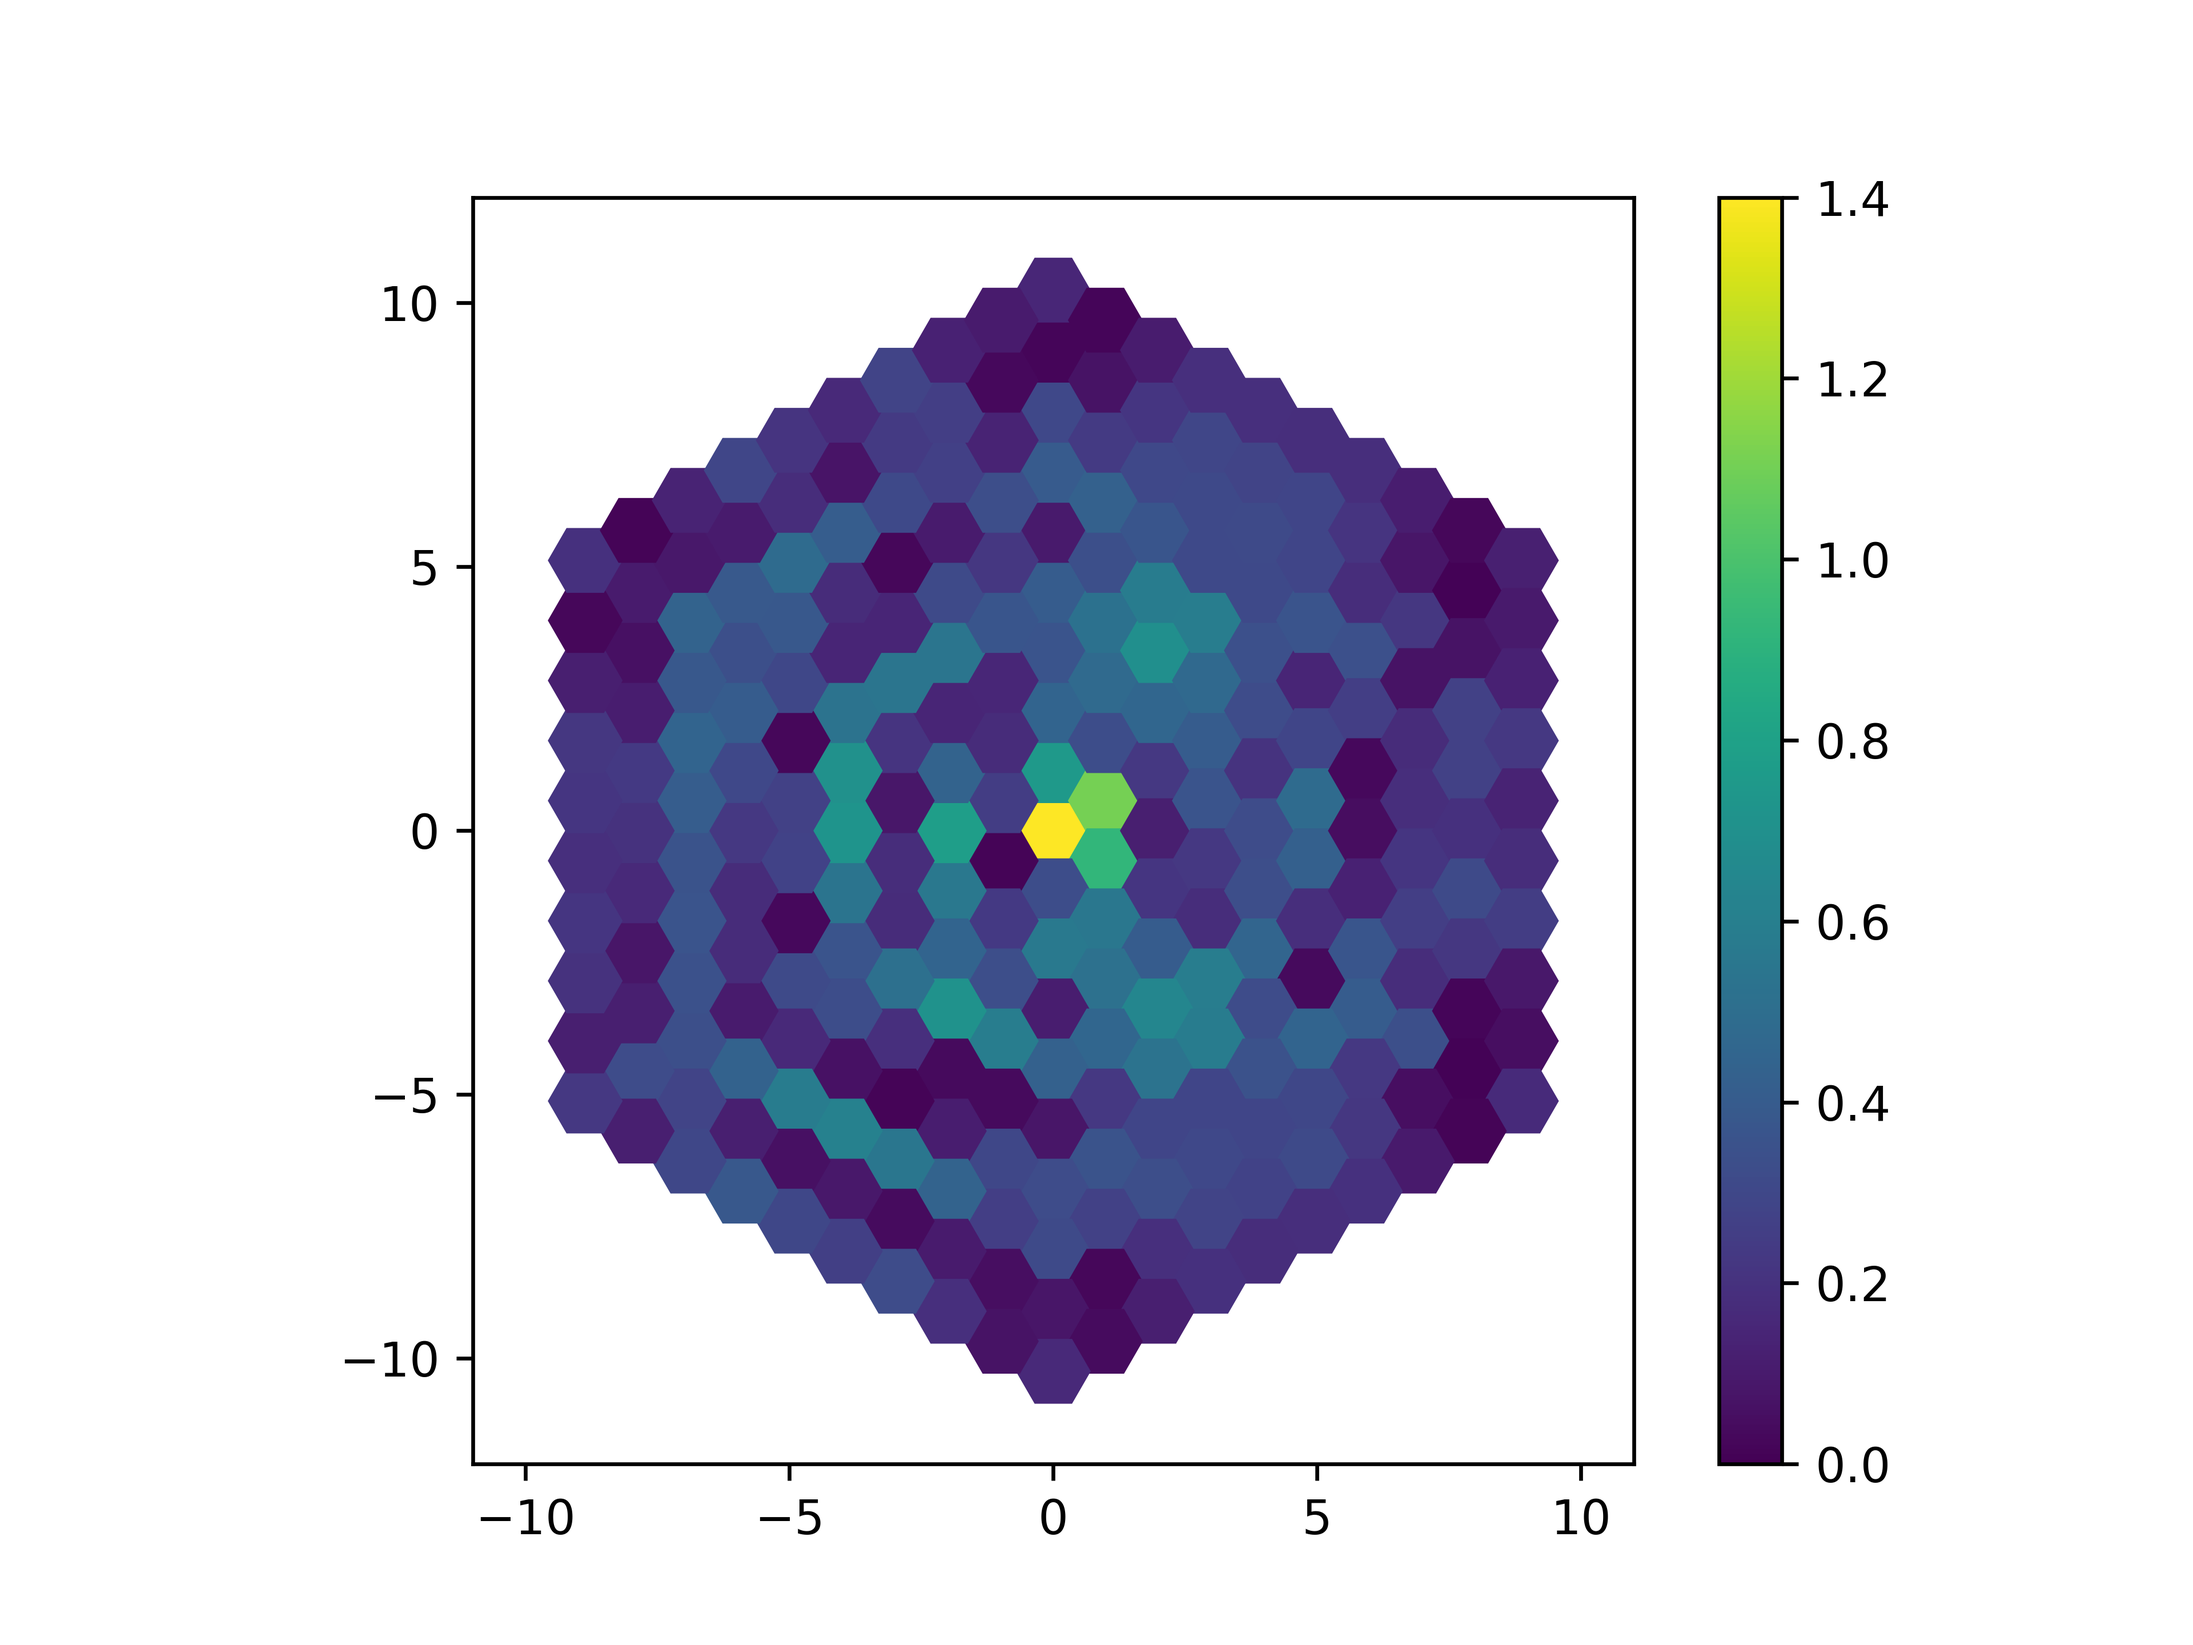
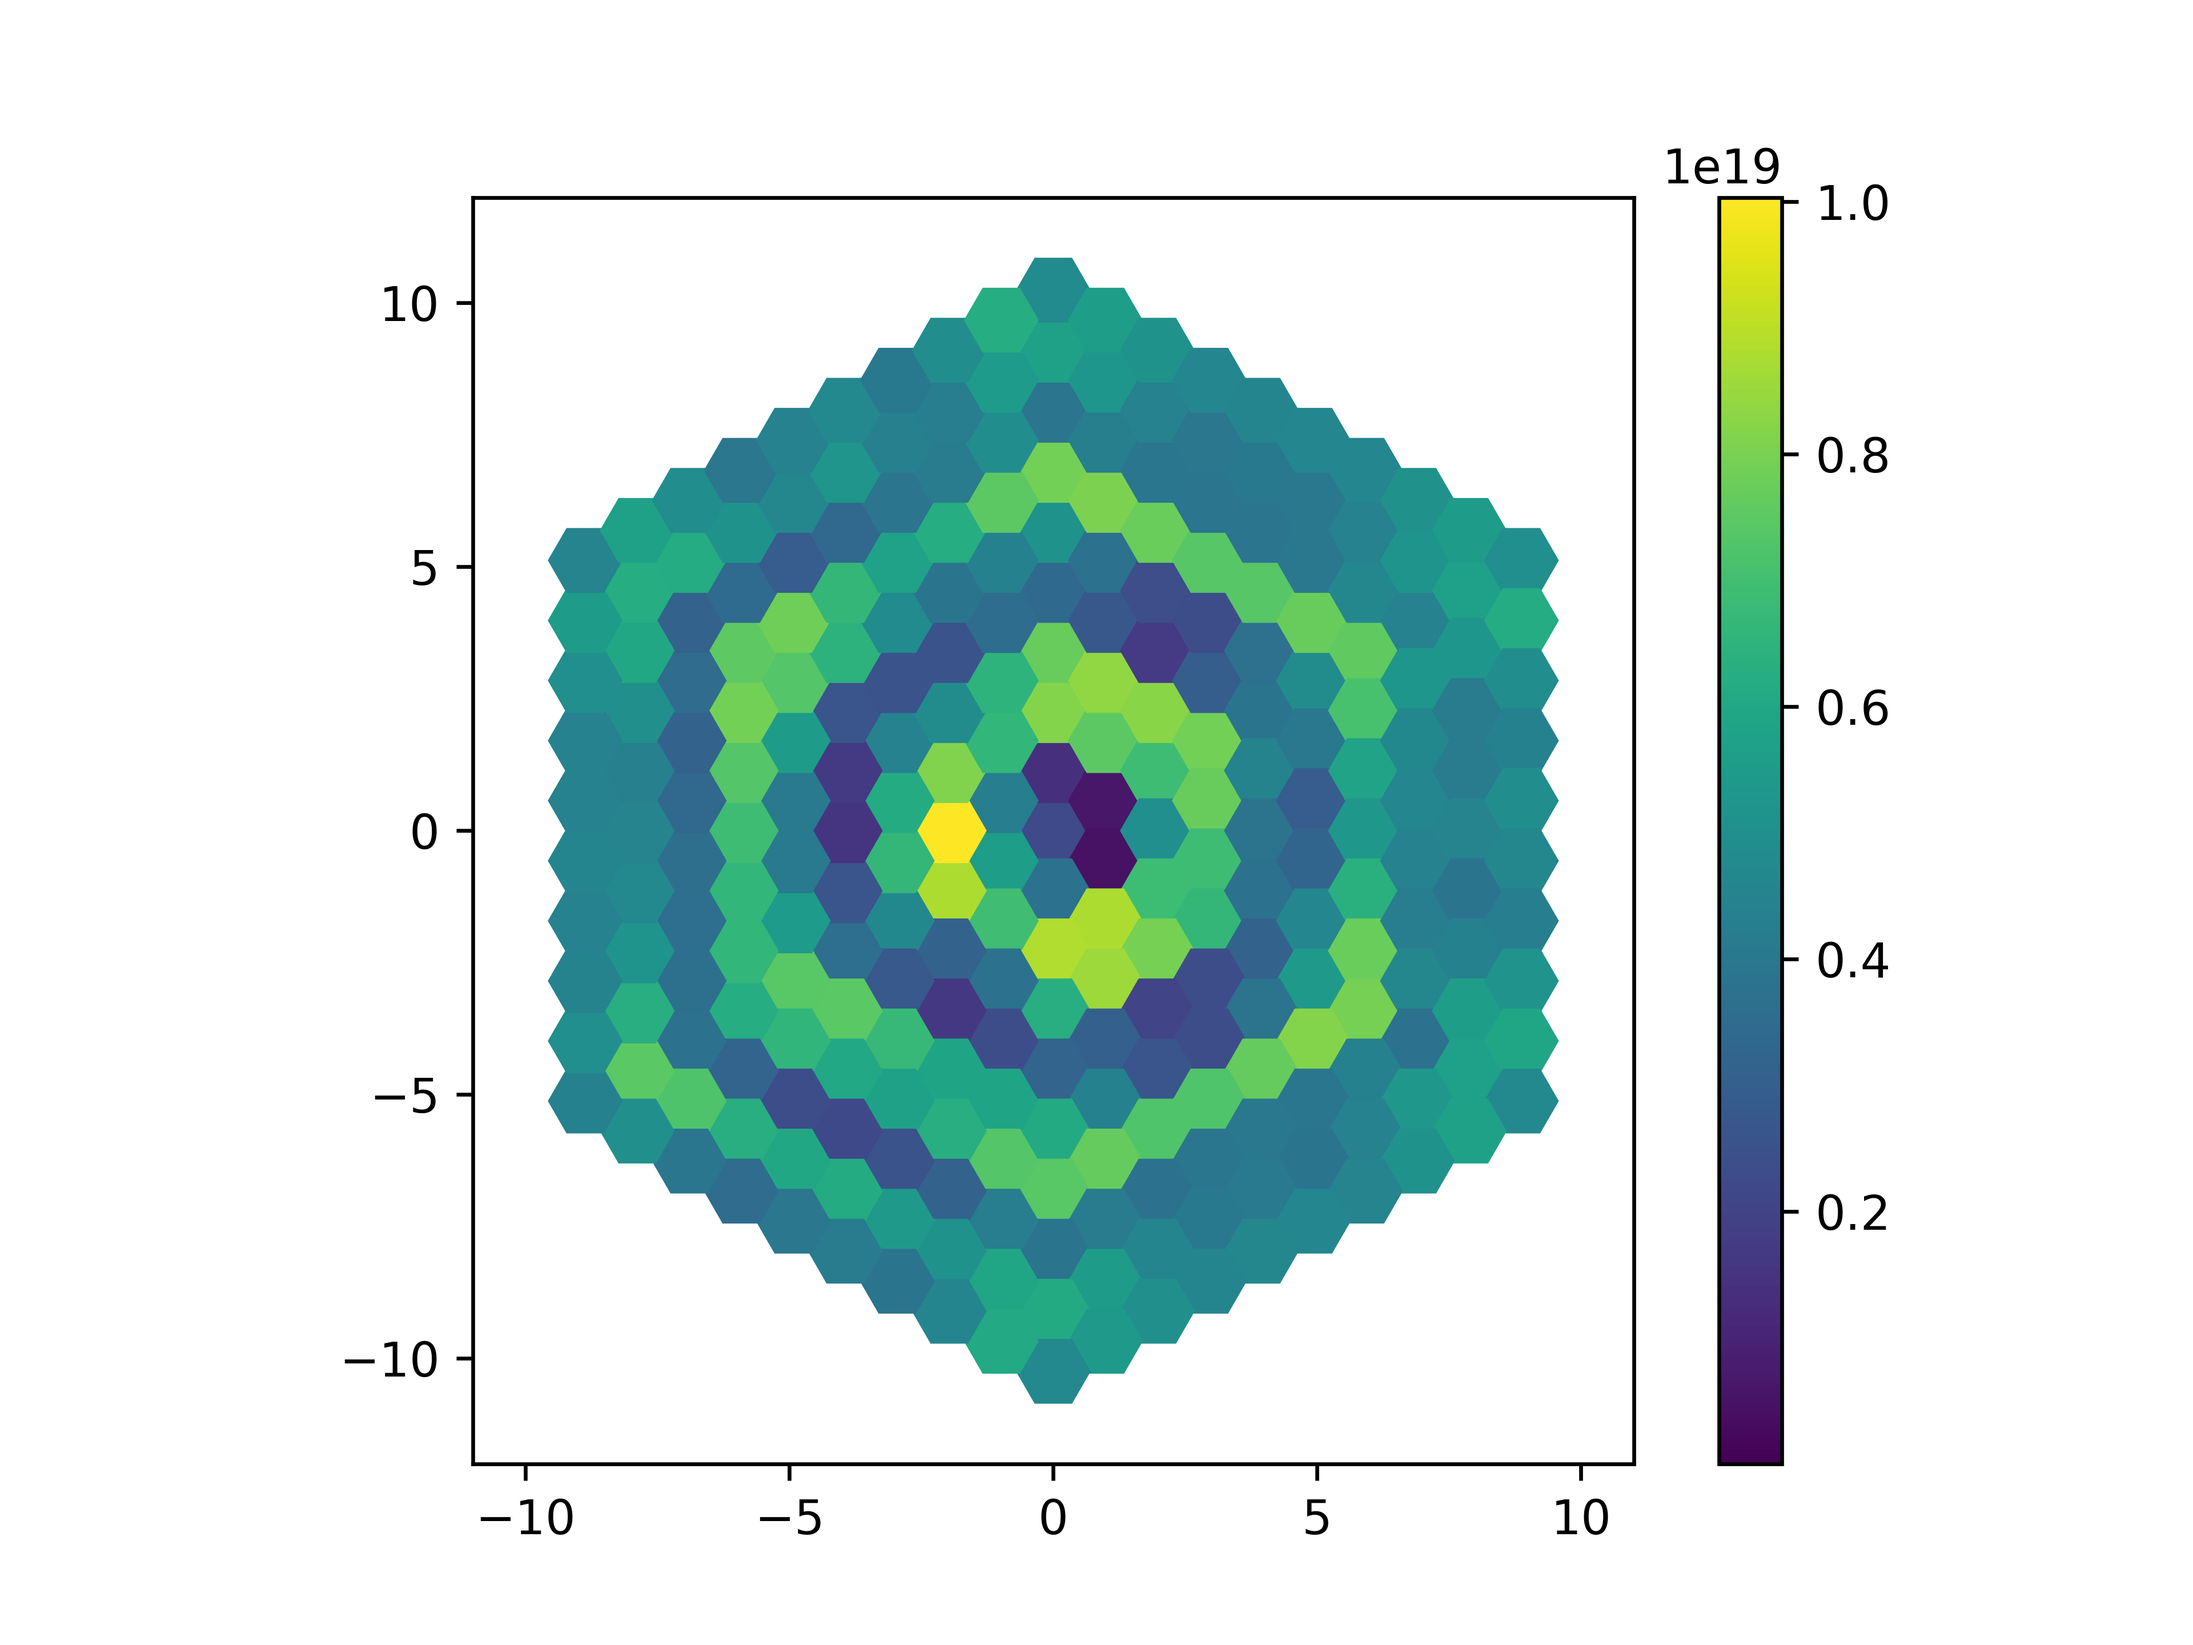
adding the whole kit and caboodle

diff --git a/post-processing/plot_tallies.py b/post-processing/plot_tallies.py
@@ -18,22 +18,34 @@ def plot_func(func, dx):
     values, min, max = calc_weights(func, dx)
     tally_type, qoi, _ = func.__name__.split('_')
 
-    bounds = [min, max]
+    total = 0
+    for ring in cs:
+        for cell_num in range(len(cs[ring])):
+            x, y = cs[ring][cell_num]
+            # color = cmap(norm(random()))
+            total += values[ring][cell_num]
+
+    # bounds = [min / total, max / total]
     # diff = bounds[1] - bounds[0]
+
+    if qoi == "fission":
+        bounds = [0, 0.018]
+    if qoi == "flux":
+        bounds = [0, 0.009]
+
+    fig, ax = plt.subplots()
+    ax.set_aspect('equal')
 
     cmap = mpl.colormaps['viridis']
     norm = mpl.colors.Normalize(bounds[0], bounds[1])
     sm = ScalarMappable(norm=norm, cmap=cmap)
     sm.set_array([])
 
-    fig, ax = plt.subplots()
-    ax.set_aspect('equal')
-
     for ring in cs:
         for cell_num in range(len(cs[ring])):
             x, y = cs[ring][cell_num]
             # color = cmap(norm(random()))
-            weight = values[ring][cell_num]
+            weight = values[ring][cell_num] / total
             color = cmap(norm(weight))
             polygon = mp.RegularPolygon((x, y), 6, radius=radius,
                                         orientation=np.pi/2, color=color)
@@ -47,34 +59,38 @@ def plot_func(func, dx):
     plt.close()
 
 
-# plotting the difference
-def plot_diff_abs(func, dx):
-    values, _, _ = calc_weights(func, dx)
-    tally_type, qoi, _ = func.__name__.split('_')
-
+# plotting csv
+def plot_csv(qoi):
     if qoi == "flux":
-        parsed = flux_vals
+        parsed = flux_vals.copy()
     if qoi == "fission":
-        parsed = fission_vals
+        parsed = fission_vals.copy()
 
-    diffs = {}
     max = -1e10
     min = 1e10
-    for ring in values:
-        diffs[ring] = []
-        for cell_num in range(len(values[ring])):
-            diff = abs(values[ring][cell_num] - parsed[ring][cell_num]) 
-            if diff > max:
-                max = diff
-            if diff < min:
-                min = diff
-            diffs[ring].append(diff)
+    total = 0
+    for ring in parsed:
+        for cell_num in range(len(parsed[ring])):
+            total += parsed[ring][cell_num]
 
-    if qoi == 'fission':
-        bounds = [0, 0.005]
-    if qoi == 'flux':
-        bounds = [0, 3e9]
+    for ring in parsed:
+        for cell_num in range(len(parsed[ring])):
+            weight = parsed[ring][cell_num]
+            if weight / total > max:
+                max = weight / total
+            if weight / total < min:
+                min = weight / total
+
+#    if qoi == 'fission':
+#        bounds = [0, 0.005]
+#    if qoi == 'flux':
+#        bounds = [0, 3e9]
 #    bounds = [min, max]
+
+    if qoi == "fission":
+        bounds = [0, 0.018]
+    if qoi == "flux":
+        bounds = [0, 0.009]
 
     cmap = mpl.colormaps['viridis']
     norm = mpl.colors.Normalize(bounds[0], bounds[1])
@@ -87,7 +103,7 @@ def plot_diff_abs(func, dx):
     for ring in cs:
         for cell_num in range(len(cs[ring])):
             x, y = cs[ring][cell_num]
-            weight = diffs[ring][cell_num]
+            weight = parsed[ring][cell_num] / total
             color = cmap(norm(weight))
             polygon = mp.RegularPolygon((x, y), 6, radius=radius,
                                         orientation=np.pi/2, color=color)
@@ -97,50 +113,55 @@ def plot_diff_abs(func, dx):
     plt.ylim(-12, 12)
     plt.colorbar(sm, ax=ax)
 
-    plt.savefig(f"plots/abs/{tally_type}-{qoi}-abs-diff.png", dpi=600)
+    plt.savefig(f"plots/{qoi}-csv.png", dpi=600)
     plt.close()
 
 
-def plot_diff_rel(func, dx):
-    values, _, _ = calc_weights(func, dx)
+def plot_diffs(func, dx):
+    values, min, max = calc_weights(func, dx)
     tally_type, qoi, _ = func.__name__.split('_')
 
     if qoi == "flux":
-        parsed = flux_vals
+        parsed = flux_vals.copy()
+        bounds = [0, 0.001]
     if qoi == "fission":
-        parsed = fission_vals
+        parsed = fission_vals.copy()
+        bounds = [0, 0.005]
+    elif qoi != "flux" and qoi != "fission":
+        raise ValueError(f"{qoi}")
 
-    diffs = {}
-    max = -1e10
-    min = 1e10
-    for ring in values:
-        diffs[ring] = []
-        for cell_num in range(len(values[ring])):
-            diff = abs((values[ring][cell_num] - parsed[ring][cell_num]) / parsed[ring][cell_num])
-            if diff > max:
-                max = diff
-            if diff < min:
-                min = diff
-            diffs[ring].append(diff)
+    total1 = 0
+    total2 = 0
+    for ring in cs:
+        for cell_num in range(len(cs[ring])):
+            total1 += values[ring][cell_num]
+            total2 += parsed[ring][cell_num]
 
-    if qoi == 'fission':
-        bounds = [0, 1.4]
-    if qoi == 'flux':
-        bounds = [0, 0.25]
-#    bounds = [min, max]
+    for ring in cs:
+        for cell_num in range(len(cs[ring])):
+            values[ring][cell_num] /= total1
+            parsed[ring][cell_num] /= total2
+
+    diff = {}
+    for ring in parsed:
+        diff[ring] = []
+        for cell_num in range(len(parsed[ring])):
+            vle = values[ring][cell_num]
+            psd = parsed[ring][cell_num]
+            diff[ring].append(abs(vle - psd))
+
+    fig, ax = plt.subplots()
+    ax.set_aspect('equal')
 
     cmap = mpl.colormaps['viridis']
     norm = mpl.colors.Normalize(bounds[0], bounds[1])
     sm = ScalarMappable(norm=norm, cmap=cmap)
     sm.set_array([])
 
-    fig, ax = plt.subplots()
-    ax.set_aspect('equal')
-
     for ring in cs:
         for cell_num in range(len(cs[ring])):
             x, y = cs[ring][cell_num]
-            weight = diffs[ring][cell_num]
+            weight = diff[ring][cell_num]
             color = cmap(norm(weight))
             polygon = mp.RegularPolygon((x, y), 6, radius=radius,
                                         orientation=np.pi/2, color=color)
@@ -150,7 +171,7 @@ def plot_diff_rel(func, dx):
     plt.ylim(-12, 12)
     plt.colorbar(sm, ax=ax)
 
-    plt.savefig(f"plots/rel/{tally_type}-{qoi}-rel-diff.png", dpi=600)
+    plt.savefig(f"plots/diffs/{tally_type}-{qoi}.png", dpi=600)
     plt.close()
 
 
@@ -161,20 +182,18 @@ def plot_all_func(dx):
     plot_func(poly_flux_xy, dx)
 
 
-def plot_all_diff_abs(dx):
-    plot_diff_abs(zern_fission_xy, dx)
-    plot_diff_abs(zern_flux_xy, dx)
-    plot_diff_abs(poly_fission_xy, dx)
-    plot_diff_abs(poly_flux_xy, dx)
+def plot_all_csv():
+    plot_csv('fission')
+    plot_csv('flux')
 
 
-def plot_all_diff_rel(dx):
-#    plot_diff_rel(zern_fission_xy, dx)
-    plot_diff_rel(zern_flux_xy, dx)
-#    plot_diff_rel(poly_fission_xy, dx)
-    plot_diff_rel(poly_flux_xy, dx)
+def plot_all_diffs(dx):
+    plot_diffs(zern_fission_xy, dx)
+    plot_diffs(zern_flux_xy, dx)
+    plot_diffs(poly_fission_xy, dx)
+    plot_diffs(poly_flux_xy, dx)
 
 
-# plot_all_func(0.03)
-# plot_all_diff_abs(0.04)
-plot_all_diff_rel(0.04)
+# plot_all_func(0.04)
+# plot_all_csv()
+plot_all_diffs(0.04)

diff --git a/post-processing/calculating_weights.py b/post-processing/calculating_weights.py
@@ -9,12 +9,14 @@ import time
 def calc_weights(func, dx):
     tally_type, qoi, _ = func.__name__.split('_')
 
-    if qoi == "fission":
-        normalizer = 12826935.117376836
-    if qoi == "flux":
-        normalizer = 2.0552252049066863e-12
-    if qoi != "fission" and qoi != "flux":
-        raise ValueError("put the fission or flux in the bag lil bro")
+    if tally_type == "zern" and qoi == "fission":
+        normalizer = 1645920829.5520897 / 1.1219273470065219
+    if tally_type == "zern" and qoi == "flux":
+        normalizer = 1645920829.5520897 * 1 / 1.602e-19 / 1.1219273470065219
+    if tally_type == "poly" and qoi == "fission":
+        normalizer = 1645920829.5520897 / 1.1219273470065219
+    if tally_type == "poly" and qoi == "flux":
+        normalizer = 1645920829.5520897 * 1 / 1.602e-19 / 1.1219273470065219
 
     t0 = time.time()
     values = {}
@@ -34,7 +36,7 @@ def calc_weights(func, dx):
             for quad_point in quad_points:
                 value += func(quad_point[0], quad_point[1])
 
-            values[ring].append(value / count / area / normalizer)
+            values[ring].append(value / count / area * normalizer)
             num_quad = count
 
     max = 1e-100

diff --git a/post-processing/post-processing.py b/post-processing/post-processing.py
@@ -44,7 +44,7 @@ cmap = mpl.colormaps['viridis']
 bz1 = [np.min(z_fission), np.max(z_fission)]
 bz2 = [np.min(z_flux), np.max(z_flux)]
 
-nz1 = mpl.colors.Normalize(bz1[0], bz1[1])
+nz1 = mpl.colors.Normalize(bz1[0], bz1[1] * 0.8)
 nz2 = mpl.colors.Normalize(bz2[0], bz2[1])
 
 smz1 = ScalarMappable(norm=nz1, cmap=cmap)
@@ -86,14 +86,23 @@ rp = r * var_radius / polygon_radius
 k_fission = poly_fission_zs(zeniths, azimuths)
 k_flux = poly_flux_zs(zeniths, azimuths)
 
+bp1 = [np.min(k_fission), np.max(k_fission)]
+bp2 = [np.min(k_flux), np.max(k_flux)]
+
+np1 = mpl.colors.Normalize(bz1[0], bz1[1])
+np2 = mpl.colors.Normalize(bz2[0], bz2[1])
+
+smp1 = ScalarMappable(norm=nz1, cmap=cmap)
+smp2 = ScalarMappable(norm=nz2, cmap=cmap)
+
 fig, ax = plt.subplots(subplot_kw = dict(projection="polar"))
 plot = ax.contourf(theta, rp, k_fission, levels=1000)
-plt.colorbar(smz1, ax=ax)
+plt.colorbar(smp1, ax=ax)
 plt.savefig("polygon-kappa-fission.png", dpi=600)
 plt.close()
 
 fig, ax = plt.subplots(subplot_kw = dict(projection="polar"))
 plot = ax.contourf(theta, rp, k_flux, levels=1000)
-plt.colorbar(smz2, ax=ax)
+plt.colorbar(smp2, ax=ax)
 plt.savefig("polygon-flux.png", dpi=600)
 plt.close()

diff --git a/post-processing/functions.py b/post-processing/functions.py
@@ -177,9 +177,9 @@ def fail():
     print(x, y, f)
 
 
-pitch = 2 * radius * np.cos(np.radians(30))
-h = pitch / 2
-q = radius * np.sin(np.radians(30))
-ms = 100
+# pitch = 2 * radius * np.cos(np.radians(30))
+#h = pitch / 2
+#q = radius * np.sin(np.radians(30))
+#ms = 100
 
-xs = np.linspace(-h 
+#xs = np.linspace(-h 
